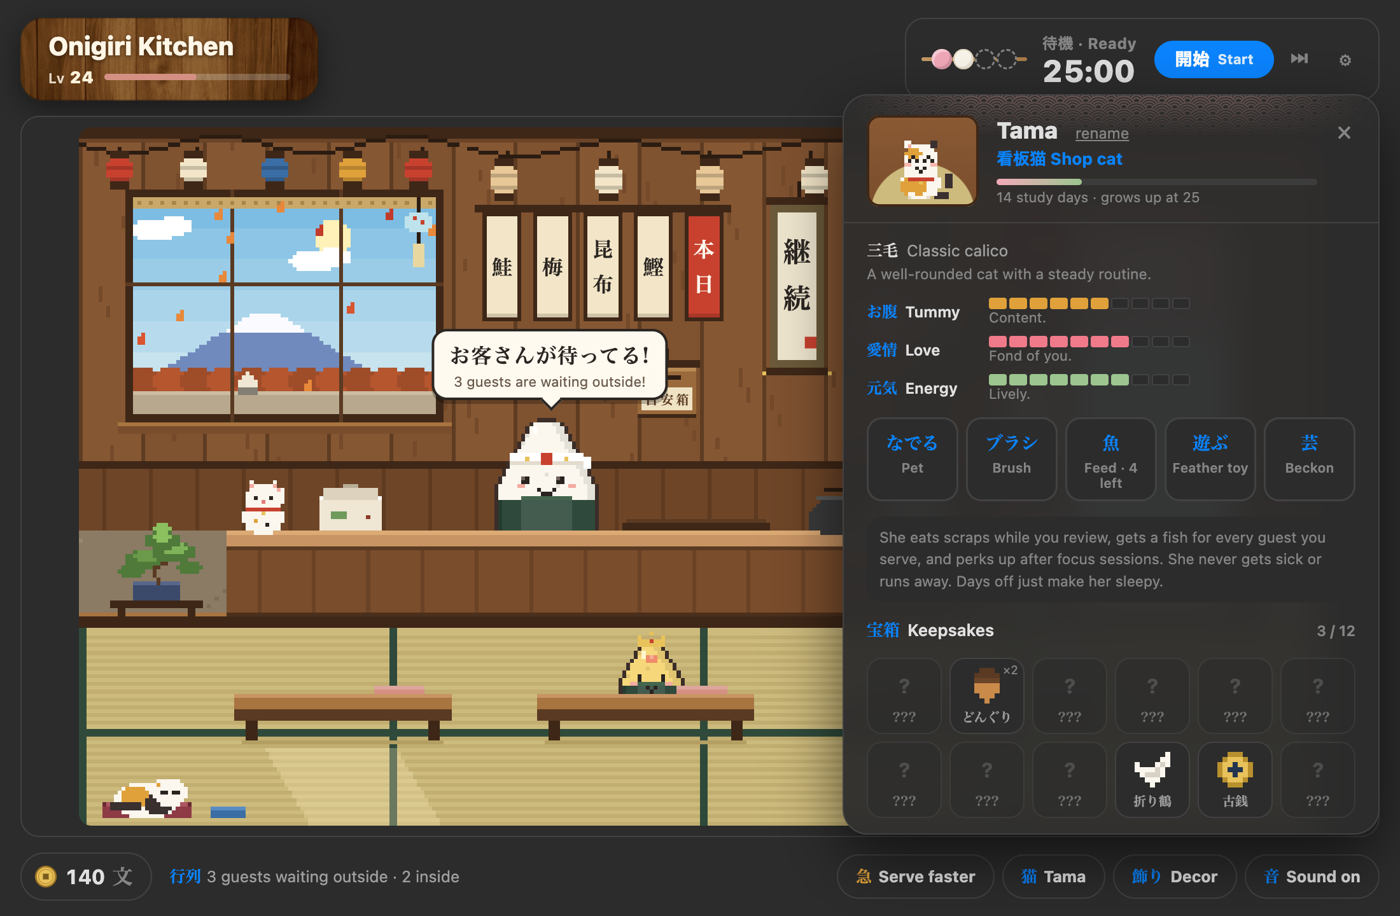
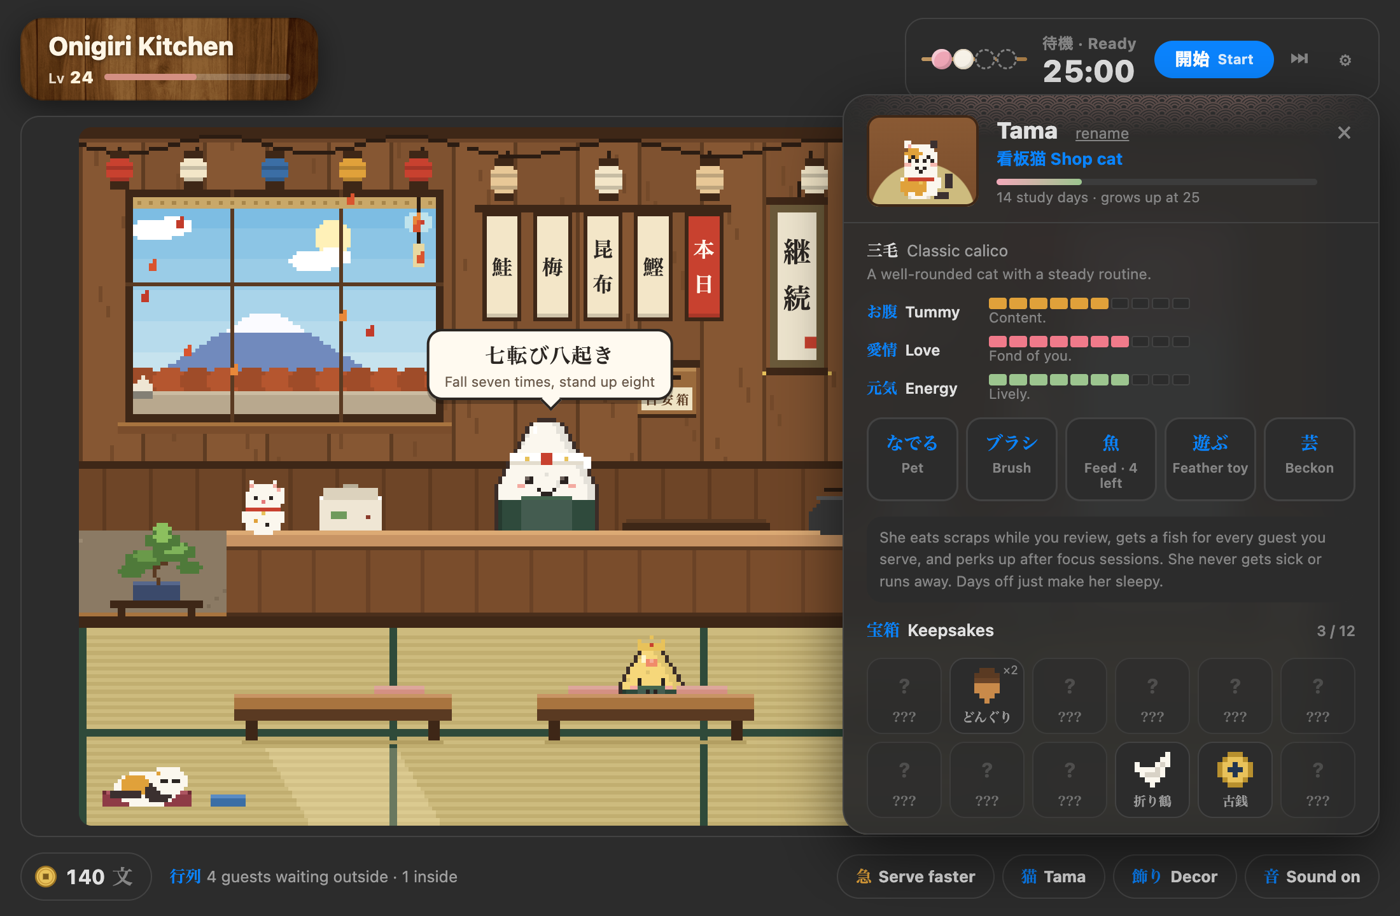
1.2.2: fix kitten Tama rendering
At kitten size the sleeping sprite collapsed into stray pixels and sat on
the scene's bottom edge. Lift Tama's floor line (bed, bowl, gifts follow)
and keep the curled sprite at a legible minimum size. Screenshots updated.

diff --git a/onigiri_kitchen/web/kitchen.js b/onigiri_kitchen/web/kitchen.js
@@ -974,8 +974,8 @@
   );
   const PET_STAGES = INIT.petStages || [];
   const PET_GIFTS = INIT.petGifts || [];
-  const STAGE_SCALE = [0.62, 0.8, 1, 1.08];
-  const FLOOR_Y = 177; // Tama's feet on the front strip of tatami
+  const STAGE_SCALE = [0.72, 0.84, 1, 1.08];
+  const FLOOR_Y = 174; // Tama's feet on the front strip of tatami
   const BED_X = 17;
   const BOWL_X = 38;
   const SUN_X = 64;
@@ -1011,16 +1011,16 @@
       for (let y = 160; y < 180; y++) g.fillRect(SUN_X - 16 + Math.round((y - 160) * 0.6), y, 34, 1);
     }
     // zabuton bed
-    R(BED_X - 11, 174, 23, 4, '#8e3b46');
-    R(BED_X - 11, 174, 23, 1, '#ad5561');
-    P(BED_X - 11, 174, '#6b2a33'); P(BED_X + 11, 174, '#6b2a33');
-    P(BED_X, 175, '#e0a13a');
+    R(BED_X - 11, FLOOR_Y - 3, 23, 4, '#8e3b46');
+    R(BED_X - 11, FLOOR_Y - 3, 23, 1, '#ad5561');
+    P(BED_X - 11, FLOOR_Y - 3, '#6b2a33'); P(BED_X + 11, FLOOR_Y - 3, '#6b2a33');
+    P(BED_X, FLOOR_Y - 2, '#e0a13a');
     // food bowl
-    R(BOWL_X - 4, 175, 9, 3, '#3b6ea5');
-    R(BOWL_X - 3, 175, 7, 1, '#dff2f7');
-    R(BOWL_X - 4, 175, 9, 1, '#5a8cc4');
-    if (tama.state === 'eat') R(BOWL_X - 2, 174, 5, 1, '#e8b8a0');
-    regions.push({ x: BOWL_X - 5, y: 172, w: 11, h: 7, label: `<b>ごはん皿</b> ${esc(pet.name)}'s food dish\n${pet.fish} fish saved · tap to feed`, click: () => petAction('feed') });
+    R(BOWL_X - 4, FLOOR_Y - 2, 9, 3, '#3b6ea5');
+    R(BOWL_X - 3, FLOOR_Y - 2, 7, 1, '#dff2f7');
+    R(BOWL_X - 4, FLOOR_Y - 2, 9, 1, '#5a8cc4');
+    if (tama.state === 'eat') R(BOWL_X - 2, FLOOR_Y - 3, 5, 1, '#e8b8a0');
+    regions.push({ x: BOWL_X - 5, y: FLOOR_Y - 5, w: 11, h: 7, label: `<b>ごはん皿</b> ${esc(pet.name)}'s food dish\n${pet.fish} fish saved · tap to feed`, click: () => petAction('feed') });
   }
 
   function esc(s) {
@@ -1119,7 +1119,7 @@
 
   function catSleep(cx, by) {
     const col = catColors();
-    const s = k();
+    const s = Math.max(0.85, k());
     const rx = Math.round(8 * s) + (pet.trait === 'chubby' ? 1 : 0);
     const ry = Math.max(2, Math.round(4 * s));
     const breath = Math.floor(time * 0.8) % 2;
@@ -1280,7 +1280,7 @@
       return;
     }
     if (tama.state === 'eat' && Math.floor(tama.t * 2) !== Math.floor((tama.t - dt) * 2)) {
-      particles.push({ x: BOWL_X + rand(-2, 2), y: 173, vx: rand(-5, 5), vy: -rand(5, 9), life: 0.4, c: '#e8b8a0', type: 'crumb' });
+      particles.push({ x: BOWL_X + rand(-2, 2), y: FLOOR_Y - 4, vx: rand(-5, 5), vy: -rand(5, 9), life: 0.4, c: '#e8b8a0', type: 'crumb' });
     }
     if (tama.state === 'sleep' && timer.phase === 'break' && tama.t > 4 && Math.random() < dt * 0.15) {
       // breaks are play time: she tends to wake up
@@ -1390,9 +1390,9 @@
   function drawFloorGifts() {
     for (const fg of floorGifts) {
       const bob = Math.round(Math.sin(time * 3 + fg.x) * 1);
-      drawGiftSprite(fg.gift.id, fg.x - 3, 170 + bob);
-      if (Math.floor(time * 4) % 4 === 0) P(fg.x + 3, 168 + bob, '#fff6cc');
-      regions.push({ x: fg.x - 5, y: 166, w: 11, h: 12, label: `<b>${fg.gift.jp}</b> A gift from ${esc(pet.name)}\nTap to pick it up`, click: () => collectGift(fg) });
+      drawGiftSprite(fg.gift.id, fg.x - 3, FLOOR_Y - 7 + bob);
+      if (Math.floor(time * 4) % 4 === 0) P(fg.x + 3, FLOOR_Y - 9 + bob, '#fff6cc');
+      regions.push({ x: fg.x - 5, y: FLOOR_Y - 11, w: 11, h: 12, label: `<b>${fg.gift.jp}</b> A gift from ${esc(pet.name)}\nTap to pick it up`, click: () => collectGift(fg) });
     }
   }
   function collectGift(fg) {

diff --git a/onigiri_kitchen/main.py b/onigiri_kitchen/main.py
@@ -22,7 +22,7 @@ from .state import CATALOG, KitchenState
 ADDON_DIR = os.path.dirname(__file__)
 PACKAGE = mw.addonManager.addonFromModule(__name__)
 CMD_PREFIX = "okitchen:"
-VERSION = "1.2.1"
+VERSION = "1.2.2"
 REPO_URL = "https://github.com/thussenthan/onigiri-kitchen"
 
 DEFAULT_CONF: Dict[str, Any] = {
